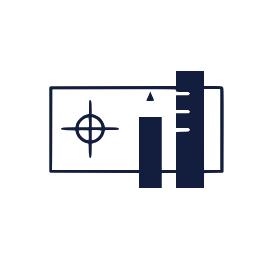
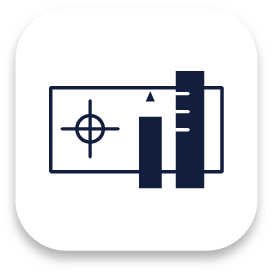
onlyIdea, 시제품 제작, 양산 이미지 구분

diff --git a/templates/body/main.html b/templates/body/main.html
@@ -21,7 +21,7 @@
                     
                     <!-- 마우스오버 효과 -->
                     <figure class="snip1141"> <img style="position: relative; "
-                            src="/static/images/onlyIdeaIcon.png" width="200px" height="200px"  />
+                            src="/static/images/onlyIdeaIcon_main.png" width="200px" height="200px"  />
                         <figcaption>
                             <!-- 상단 동그라미 부분 -->
                             <div class="circle"><i class="ion-ios-plus-empty"> </i></div>
@@ -48,7 +48,7 @@
                     
                     <!-- 마우스오버 효과 -->
                     <figure class="snip1141"> <img style="position: relative; border-radius: 50px;"
-                            src="/static/images/prototypingIcon.png" width="200px" height="200px"  />
+                            src="/static/images/prototypingIcon_main.png" width="200px" height="200px"  />
                         <figcaption>
                             <!-- 상단 동그라미 부분 -->
                             <div class="circle"><i class="ion-ios-plus-empty"> </i></div>
@@ -80,7 +80,7 @@
                 <td>
                     
                     <figure class="snip1141"> <img style="position: relative; "
-                            src="/static/images/prototypingIcon.png" width="200px" height="200px" />
+                            src="/static/images/prototypingIcon_main.png" width="200px" height="200px" />
                         <figcaption>
                             <!-- 상단 동그라미 부분 -->
                             <div class="circle"><i class="ion-ios-plus-empty"> </i></div>

diff --git a/templates/order/order_home.html b/templates/order/order_home.html
@@ -27,7 +27,7 @@ text-align: center;
         <tr>
             <td>
                 <a href="{% url 'itrencotech:order_form_onlyIdea' %}" >
-                <img src="/static/images/onlyIdeaIcon.png" height="240px" width="240px" alt="image"/></a>
+                <img src="/static/images/onlyIdeaIcon.png" height="240px" width="240px" alt="image" style="border-radius: 50px; border: 1px;" /></a>
                 <p style="font-weight:bold; font-size:22px; color:#0B173B;">ONLY IDEA</p>
             </td>
             <td>
